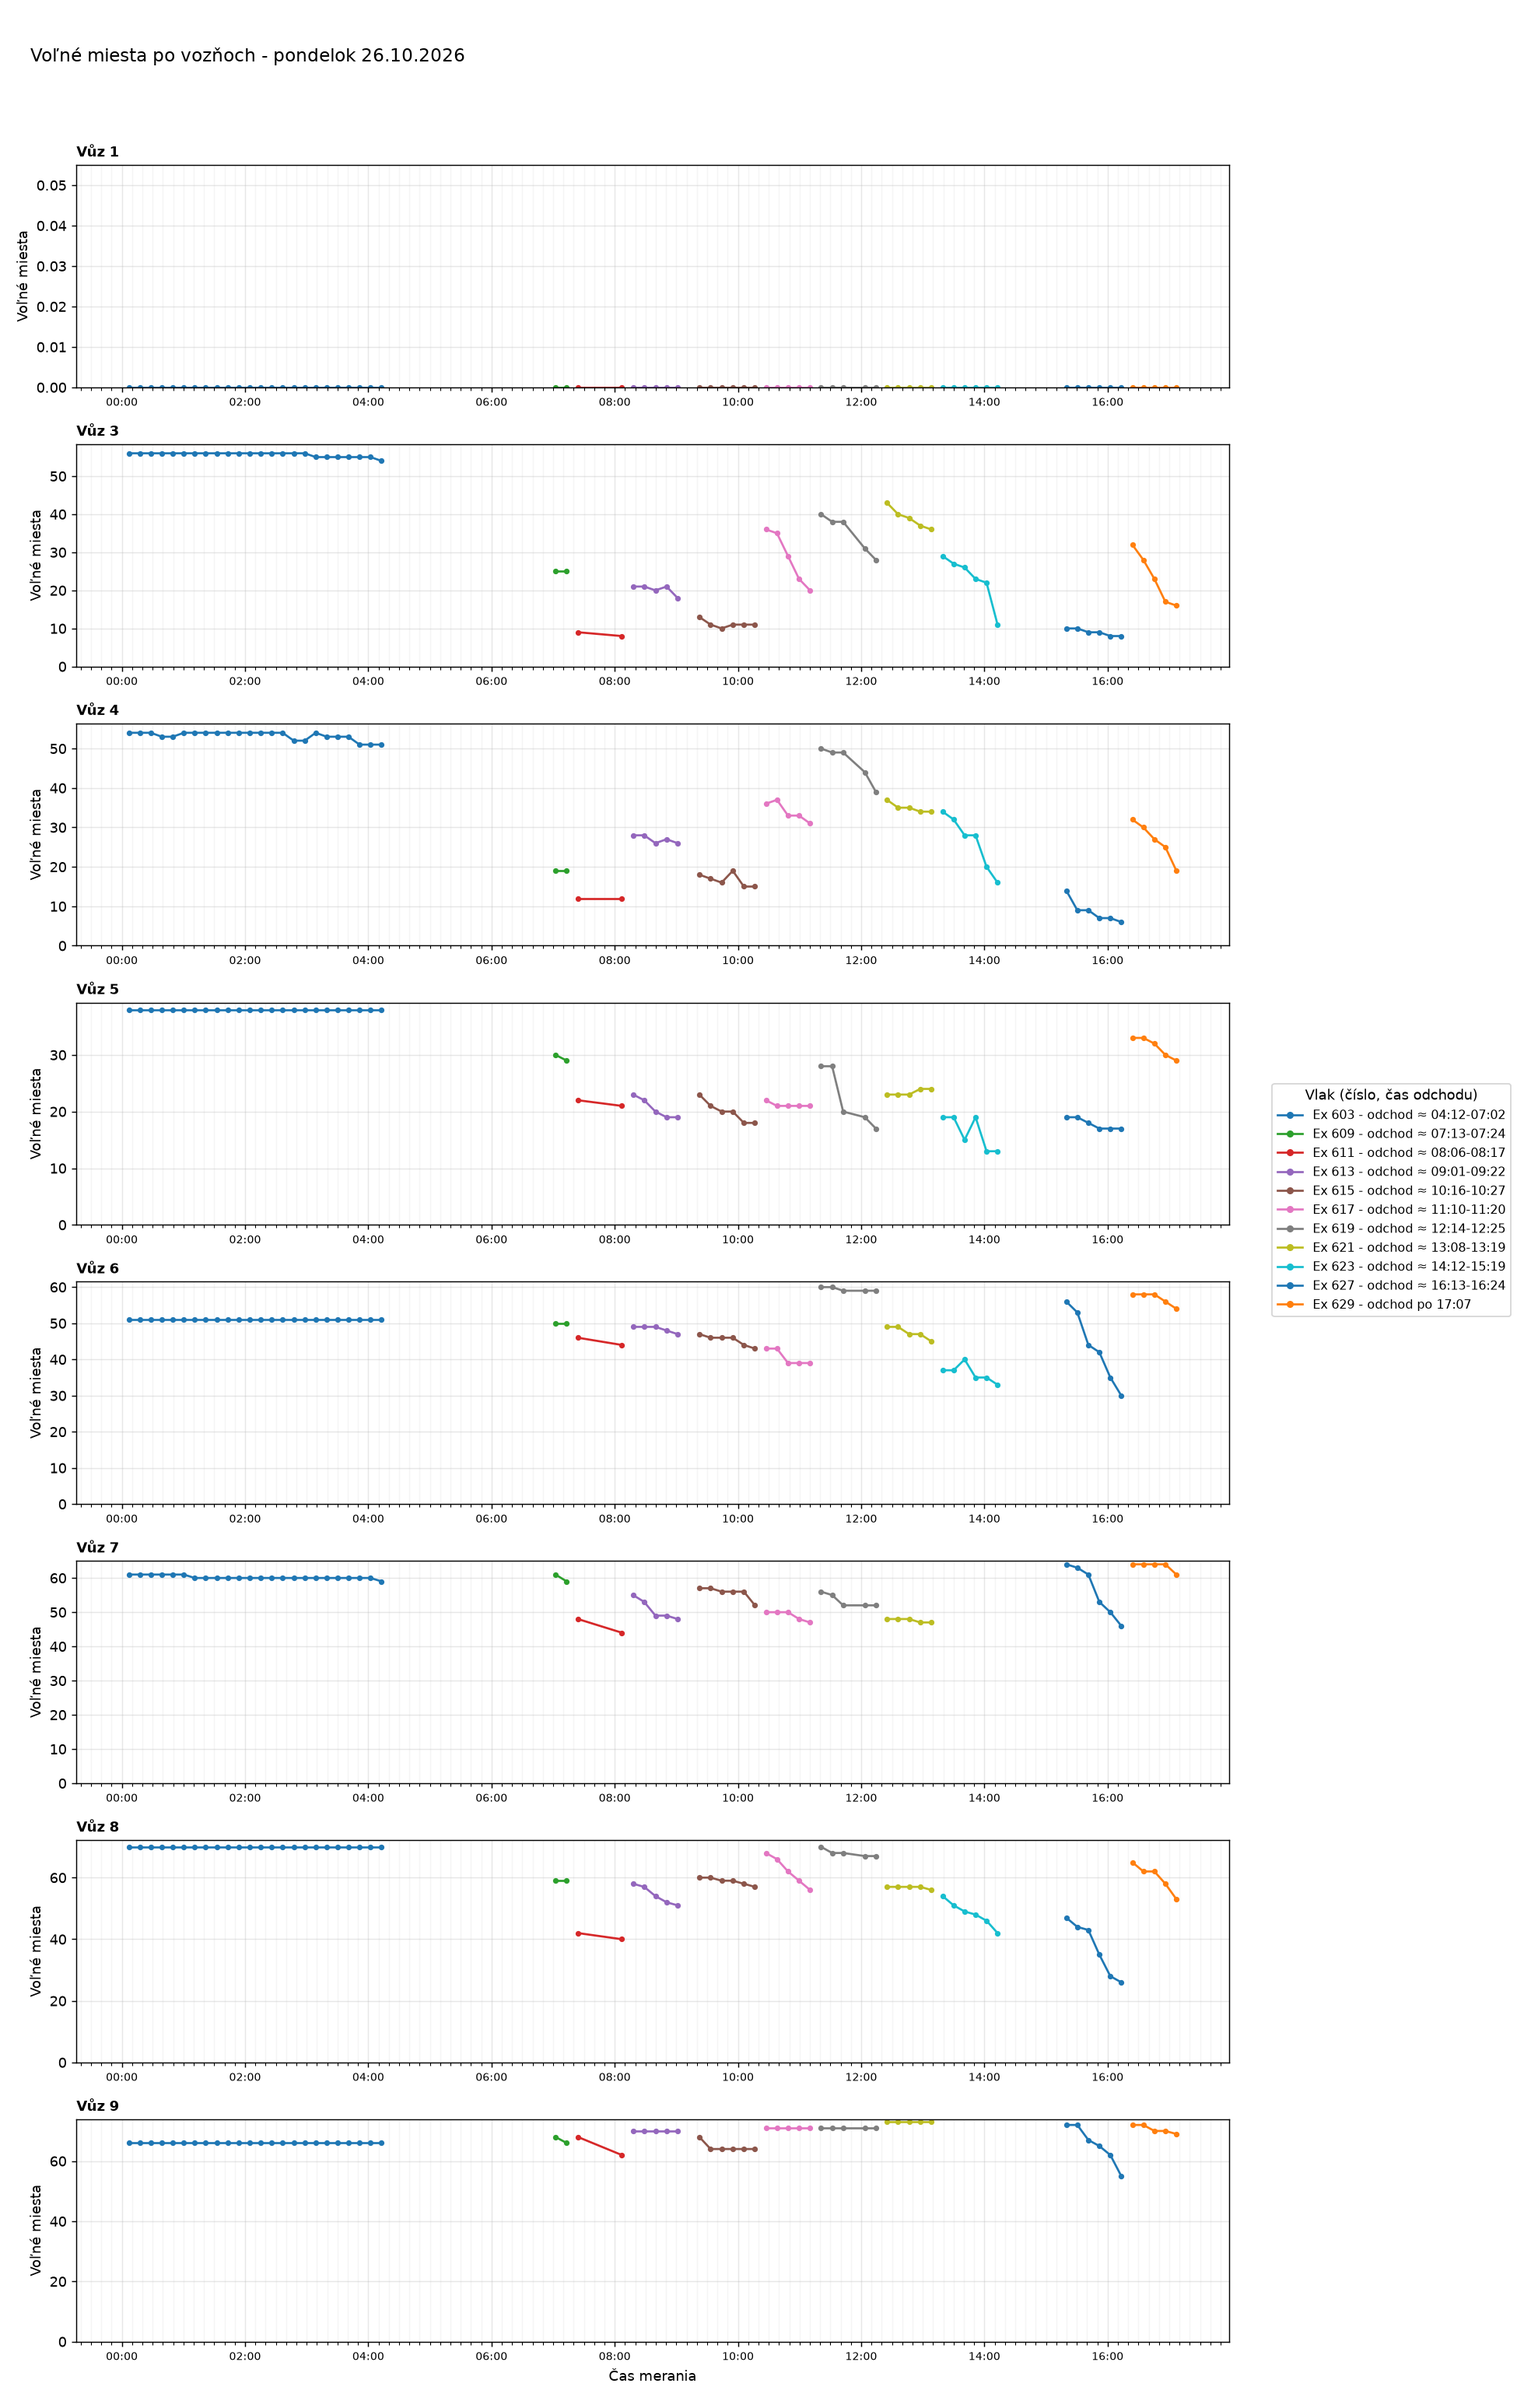
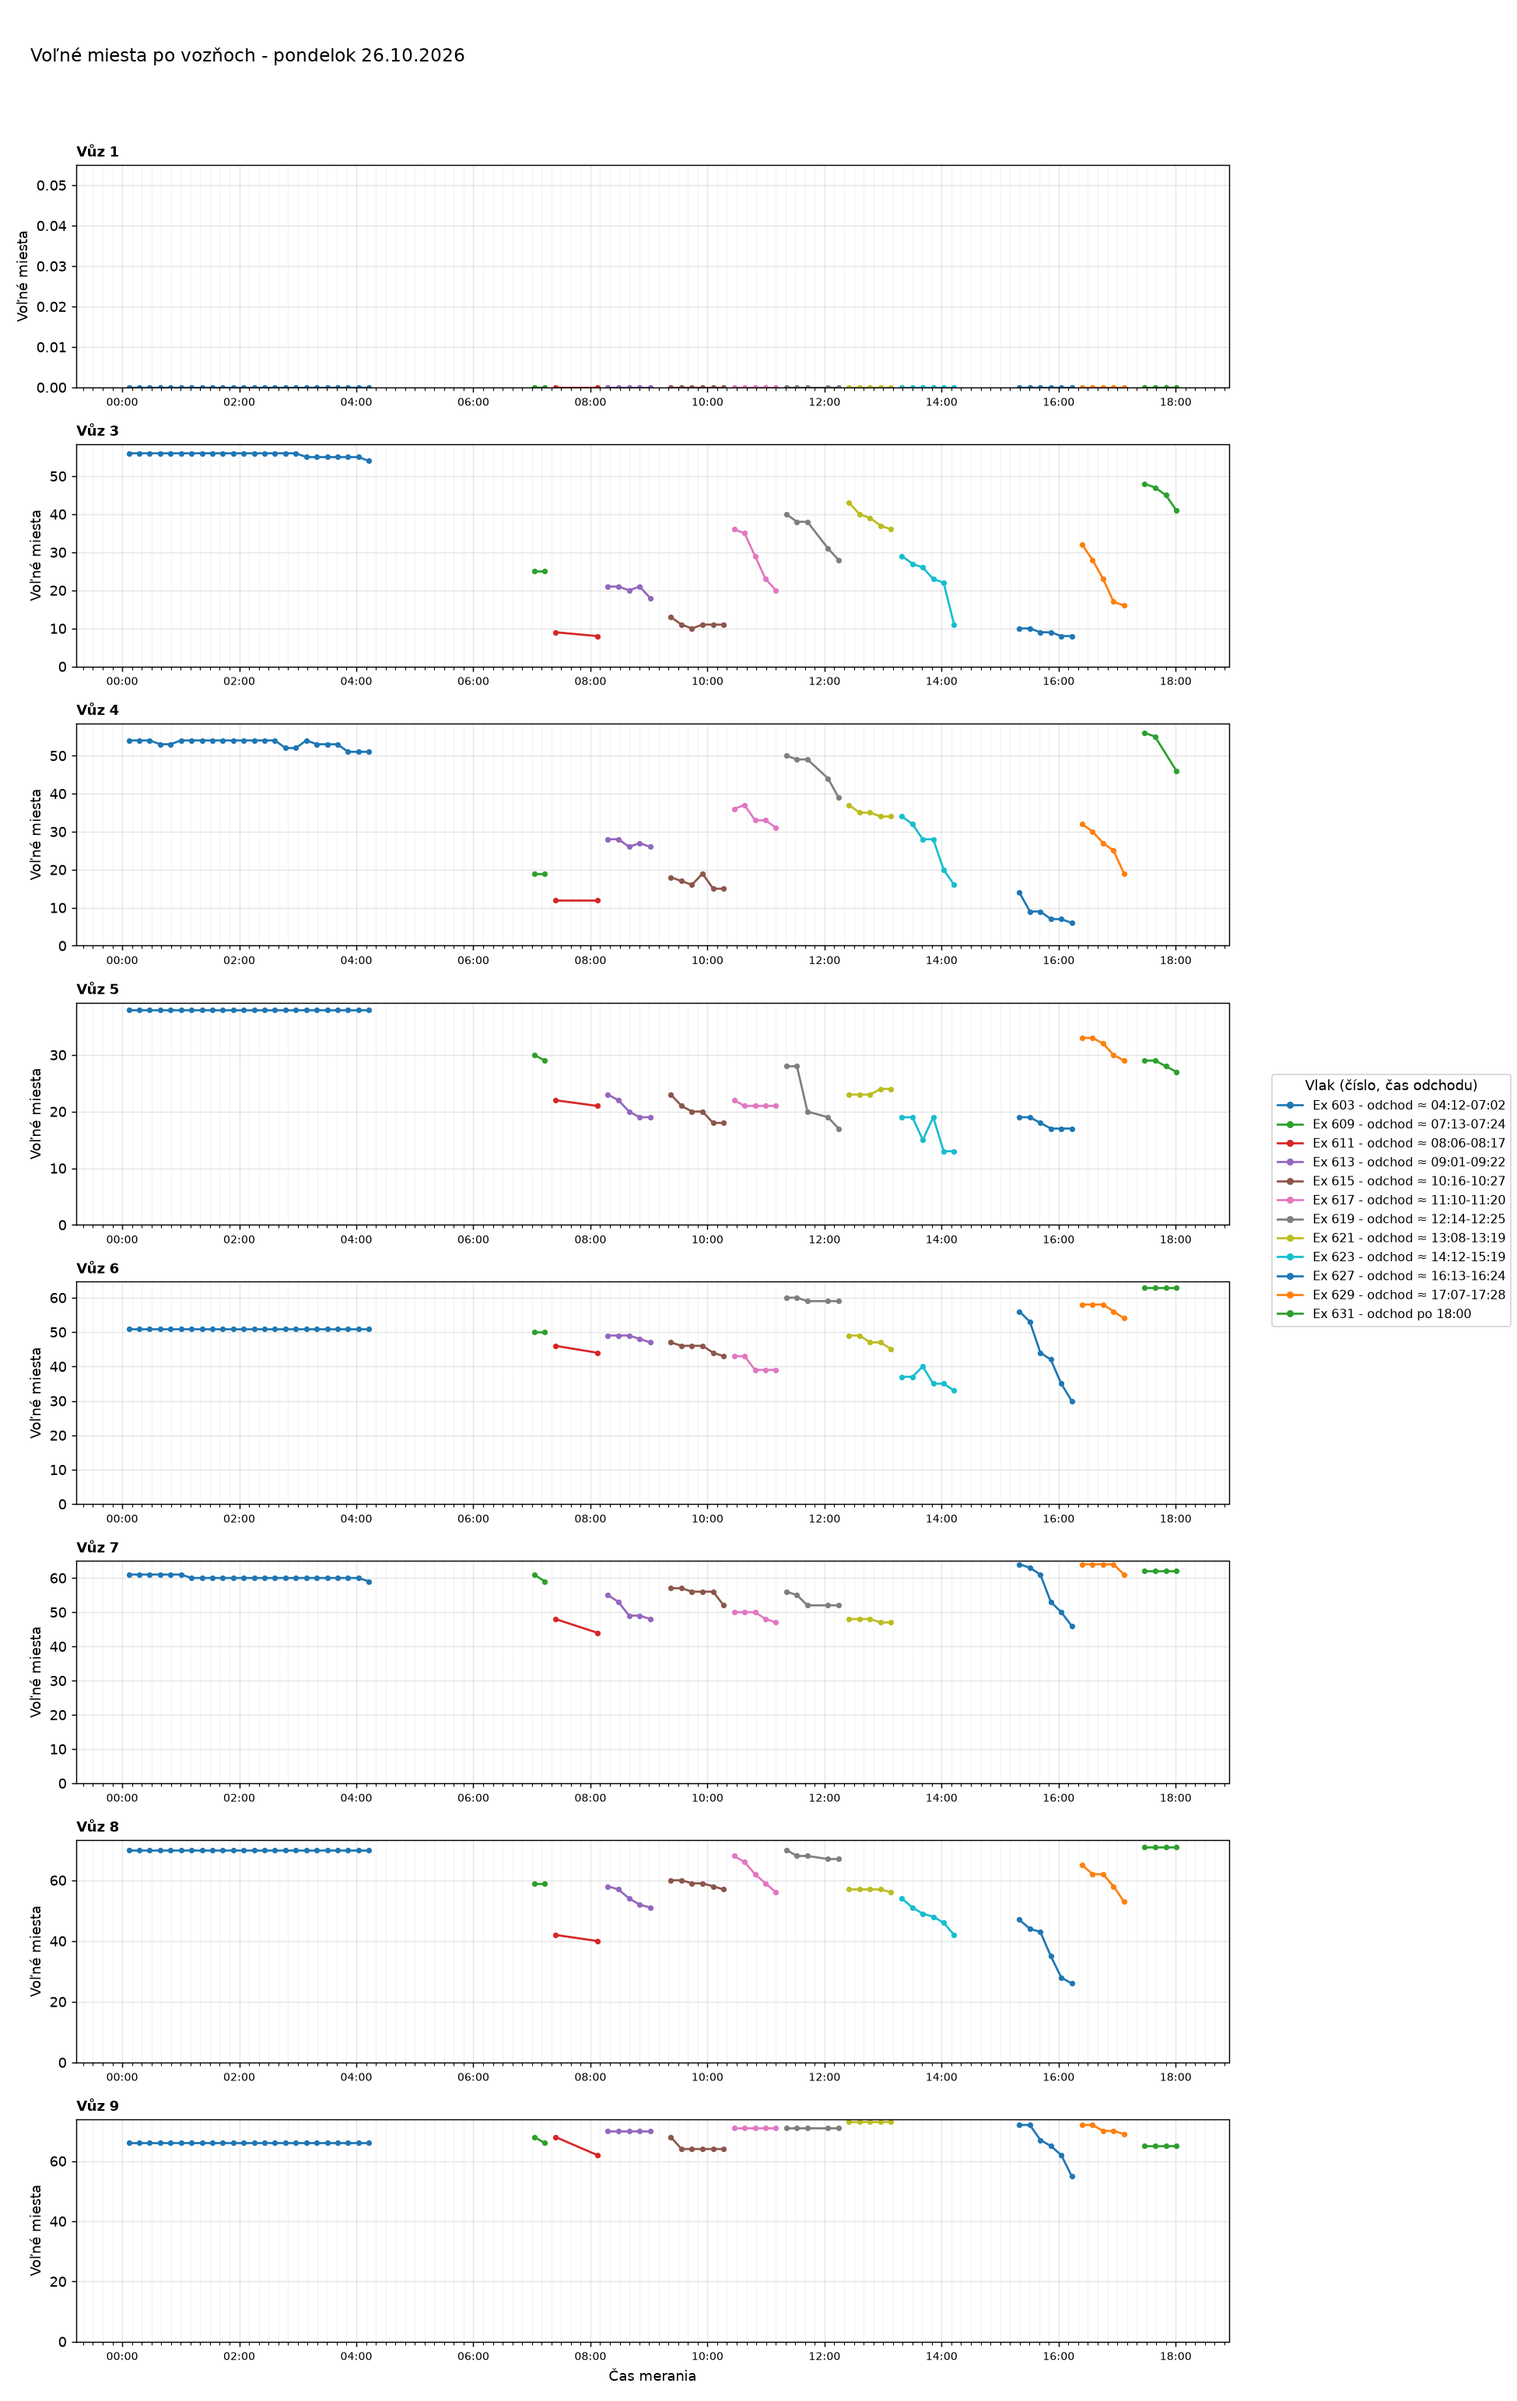
Aktualizácia grafov 2026-10-26 18:08

diff --git a/index.html b/index.html
@@ -35,7 +35,7 @@ h2.oddiel{margin:36px 0 0;font-size:1.4rem}
 <body>
 <main>
 <h1>Voľné miesta vo vlakoch</h1>
-<p class="muted">Posledné meranie: 26.10.2026 17:07 ·
+<p class="muted">Posledné meranie: 26.10.2026 18:00 ·
 <a href="data/obsadenost_data.csv">stiahnuť dáta (CSV)</a></p>
 <nav class="nav"><a href="#suhrn">Súhrn</a><a href="#statistiky">Štatistiky</a><a href="#historia">História grafov</a></nav>
 
@@ -44,7 +44,7 @@ h2.oddiel{margin:36px 0 0;font-size:1.4rem}
 <div class="tablewrap"><table>
 <thead><tr><th>Deň</th><th>Meraní</th><th>Vlakov</th><th>Čas meraní</th></tr></thead>
 <tbody>
-<tr><td><a href="#d2026-10-26">pondelok 26.10.2026</a></td><td>71</td><td>11</td><td>00:06-17:07</td></tr>
+<tr><td><a href="#d2026-10-26">pondelok 26.10.2026</a></td><td>75</td><td>12</td><td>00:06-18:00</td></tr>
 <tr><td><a href="#d2026-10-25">nedeľa 25.10.2026</a></td><td>101</td><td>15</td><td>00:01-23:56</td></tr>
 <tr><td><a href="#d2026-10-24">sobota 24.10.2026</a></td><td>98</td><td>14</td><td>00:10-23:50</td></tr>
 <tr><td><a href="#d2026-10-23">piatok 23.10.2026</a></td><td>64</td><td>13</td><td>07:25-23:49</td></tr>
